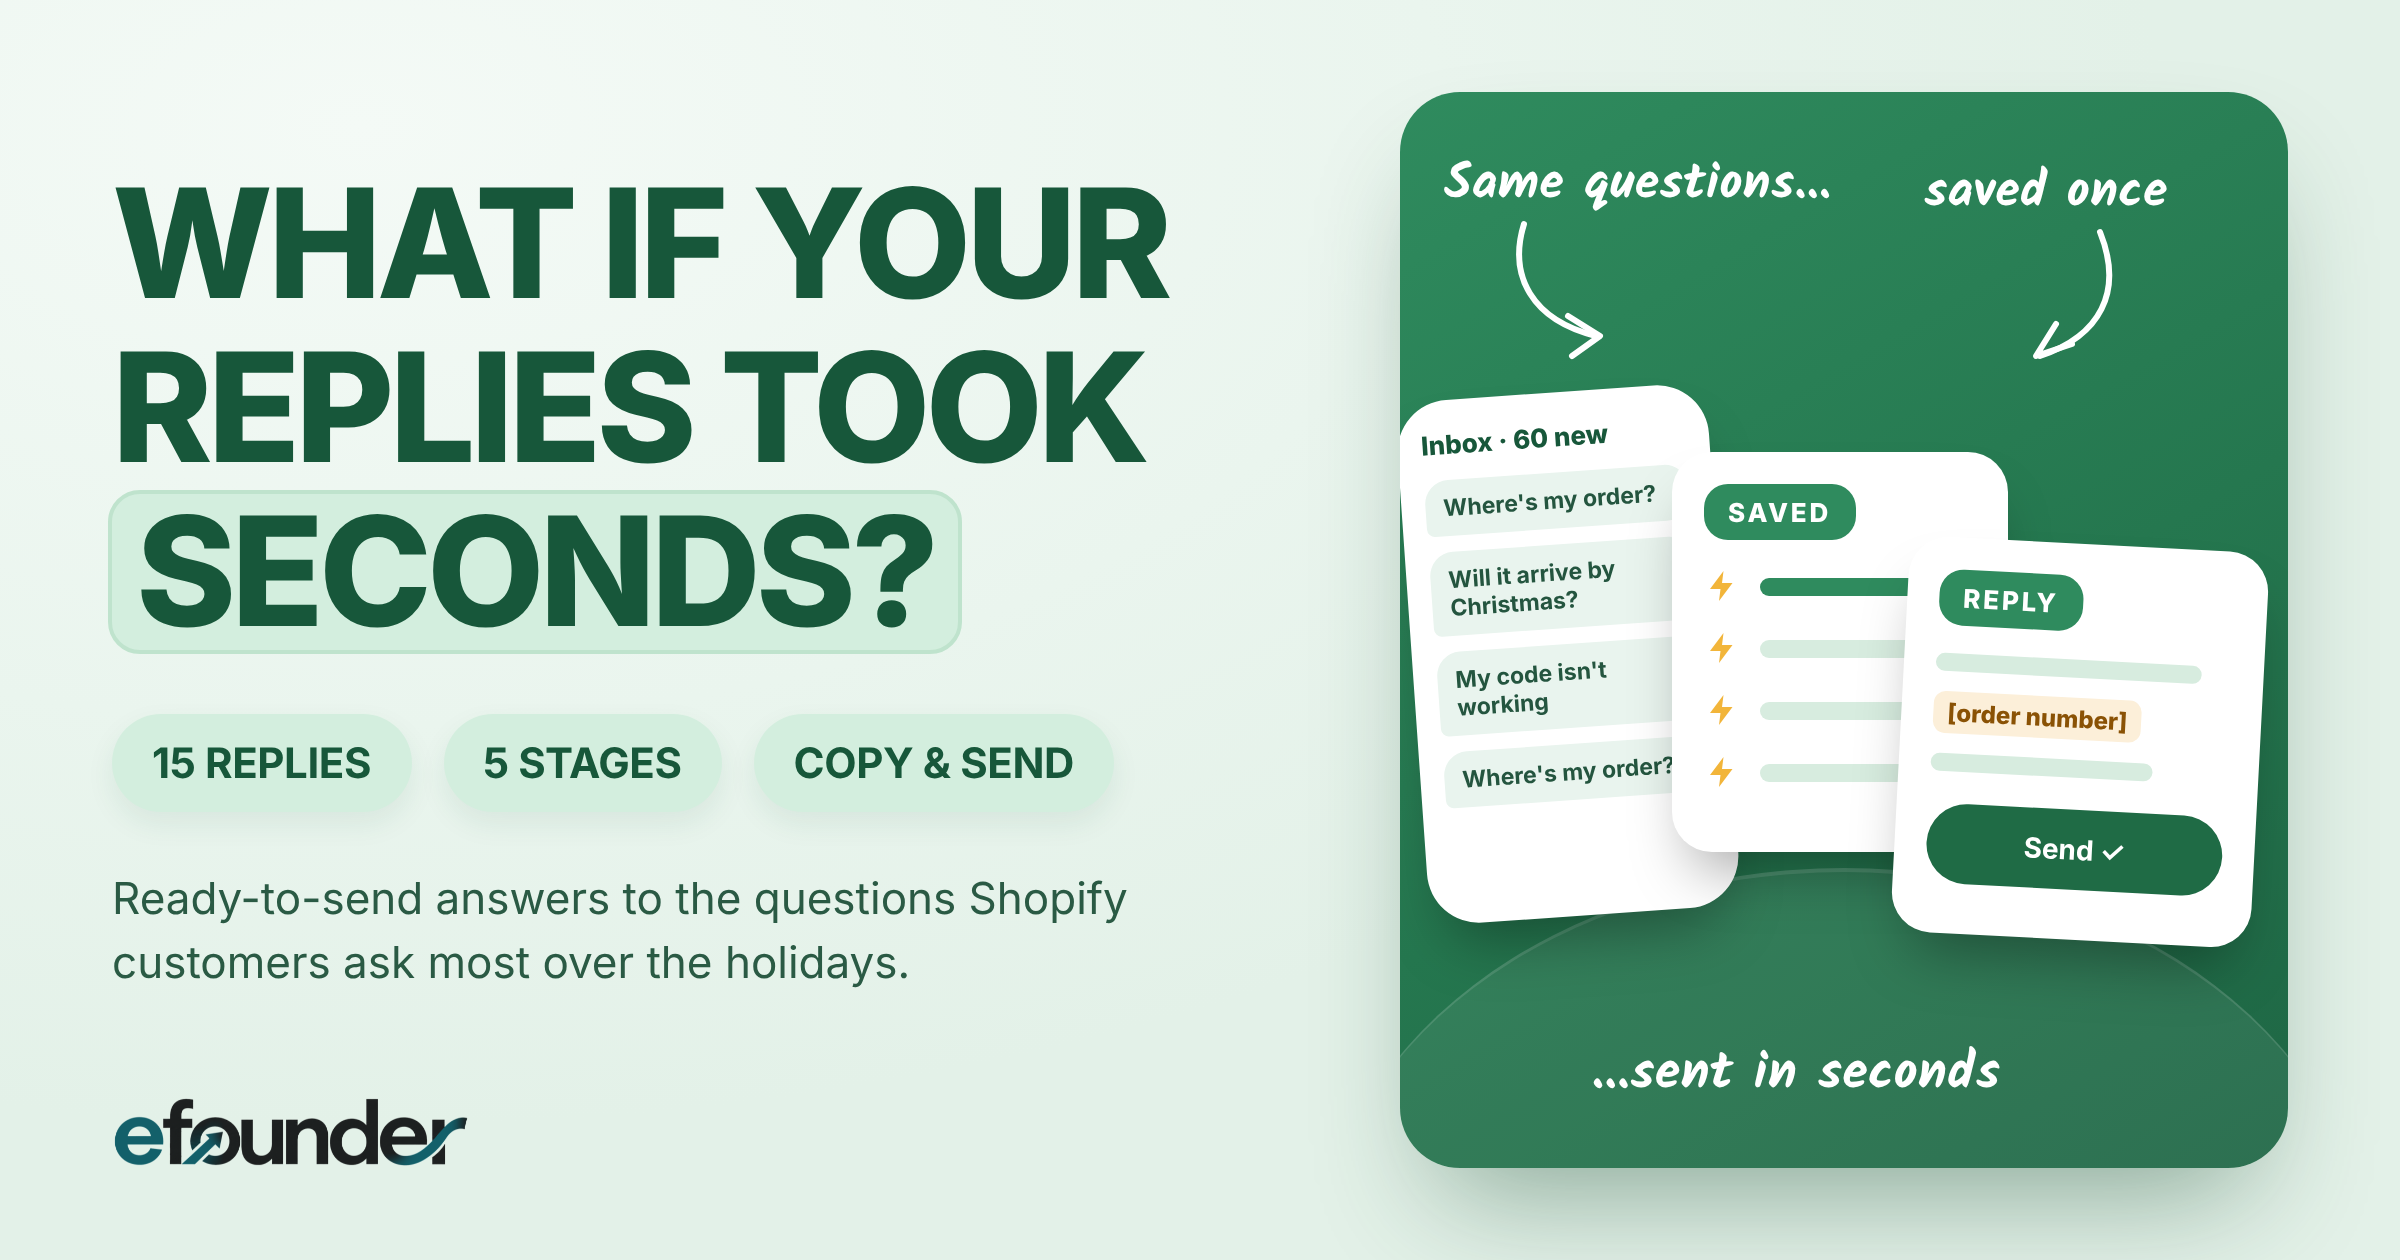
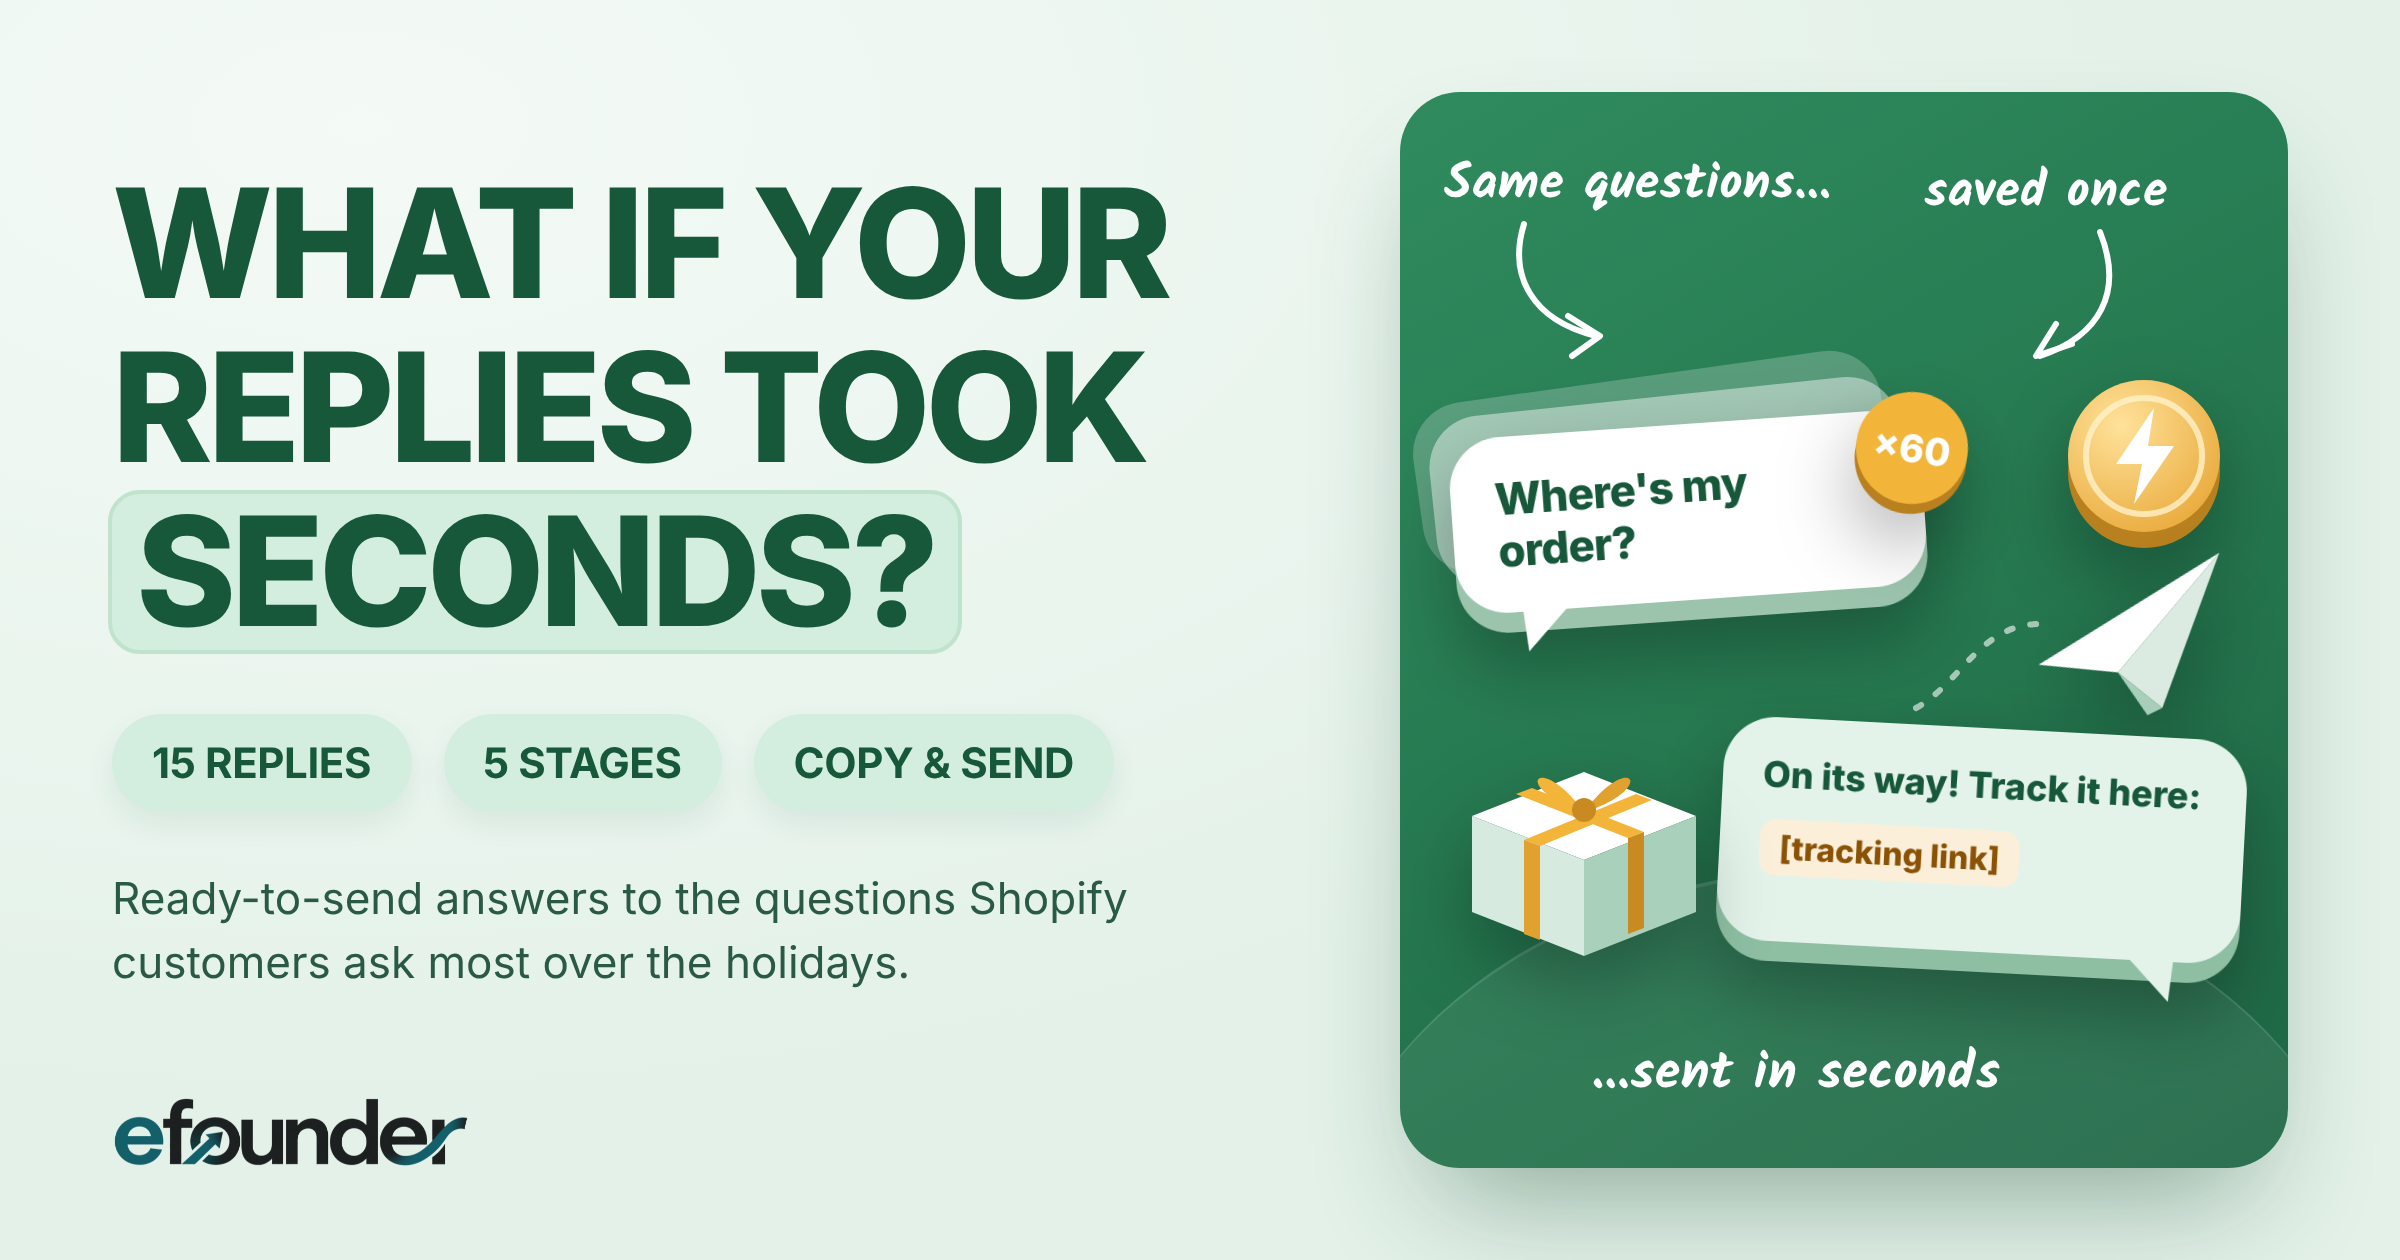
Give each thumbnail its own 3D illustrations and update alt text
Claude-Session: https://claude.ai/code/session_01PDmfwj2UrBHxLuBtqZTcvL

Changed region(s): [[0.5625, 0.2786, 0.9688, 0.8048]]

diff --git a/efounder-resources/insights-hub-listing-and-email-template.md b/efounder-resources/insights-hub-listing-and-email-template.md
@@ -14,7 +14,7 @@ Two new resources for the Insights Hub, in the same format as "eFounder Insights
 | Description | A plain-English, 17-step checklist to keep your Shopify store fast and working from Black Friday to the January sales. Start with the five Level 1 steps in about an hour, no coding needed. |
 | Short description (if the card is tight) | 17 simple steps to keep your Shopify store fast from Black Friday to the January sales. |
 | Thumbnail file | efounder-peak-traffic-speed-checklist-thumbnail.png (1200 x 630 px) |
-| Thumbnail alt text | eFounder Peak Traffic Speed Checklist thumbnail with a store page, a speed gauge and a holiday sale plan |
+| Thumbnail alt text | eFounder Peak Traffic Speed Checklist thumbnail with a speedometer, a stopwatch, app blocks being cleared out and a sale-date calendar |
 | Form fields | Name, Email ID |
 | Form button label | Send Me the Checklist |
 
@@ -42,7 +42,7 @@ Two new resources for the Insights Hub, in the same format as "eFounder Insights
 | Description | 15 ready-to-send replies to the questions Shopify customers ask most over the holidays, from "Where is my order?" to gift returns. Save them once in Gmail or Shopify Inbox and answer in seconds. |
 | Short description (if the card is tight) | 15 ready-to-send replies to the questions Shopify customers ask most over the holidays. |
 | Thumbnail file | efounder-holiday-customer-service-replies-thumbnail.png (1200 x 630 px) |
-| Thumbnail alt text | eFounder Holiday Customer Service Replies thumbnail with a customer inbox, saved replies and a reply ready to send |
+| Thumbnail alt text | eFounder Holiday Customer Service Replies thumbnail with a stack of repeated customer questions, a saved-reply token, a paper plane and a gift box |
 | Form fields | Name, Email ID |
 | Form button label | Send Me the Guide |
 
